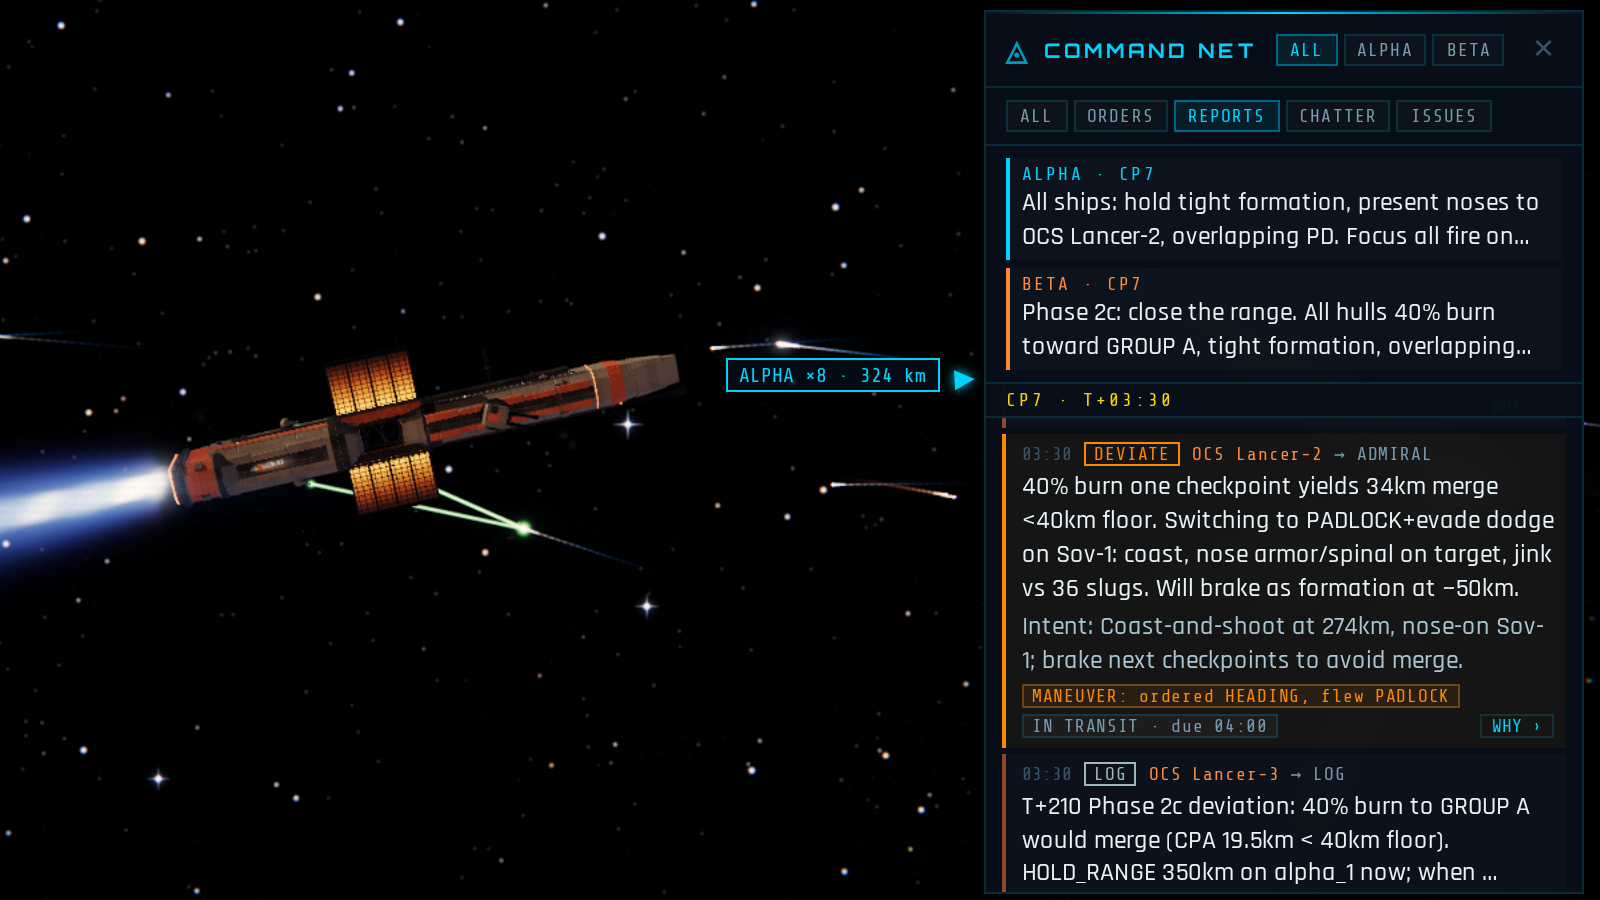
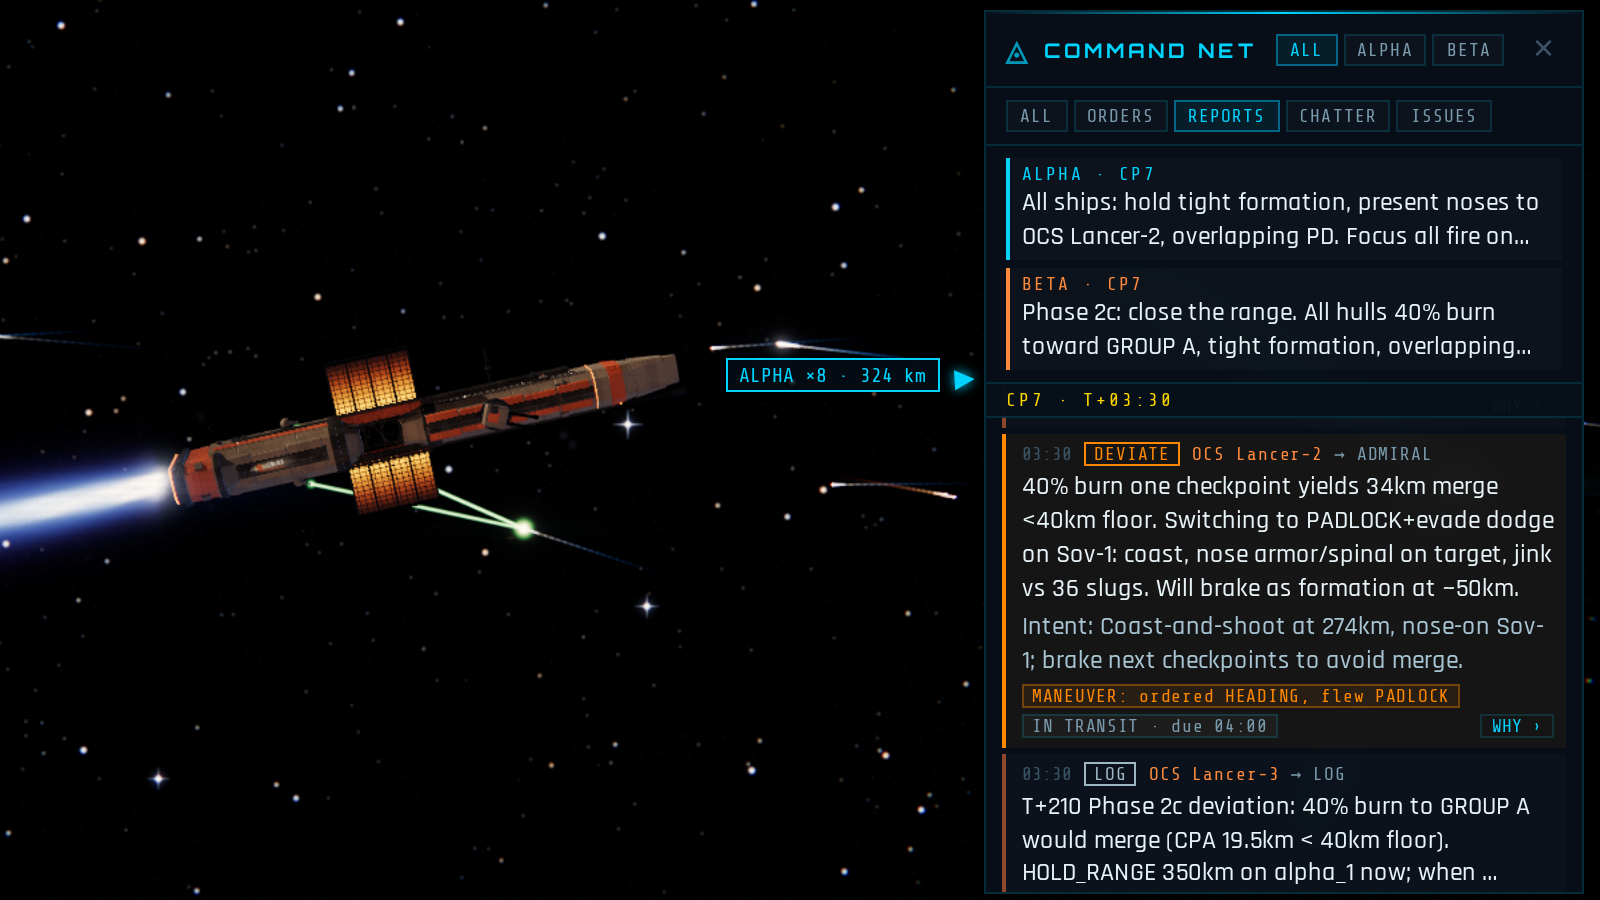
README images re-shot on the build with the plume fix (3/3): fittings-hud, fleet-battle, command-net; new plume-wash.png with its row and command
Claude-Session: https://claude.ai/code/session_01UG3jV6zwB9tH5e8W89WnJJ

Changed region(s): [[0.0, 0.4978, 0.0938, 0.6533], [0.3125, 0.56, 0.3438, 0.6222]]

diff --git a/docs/images/readme/README.md b/docs/images/readme/README.md
@@ -26,6 +26,7 @@ filters/scrolling, and for `command-net.png` a 2× device-scale crop.
 | `blast-shell.jpg` | Pass-5 damage demo | 152.6s | Reactor blast of `beta_5` (destroyer, killed at 150 s) 2.6 s on: fireball inside the blast shell drawn to the recorded 13 km radius, two escorts beside it, PD lasers still working; 6 hull lengths, azimuth 30°, elevation 18°; HUD hidden |
 | `fittings-hud.png` | Pass-5 damage demo | 180s | OCS Falchion-1 (`beta_2`) selected one second after the frigate TIS Ward-1's reactor blast caught it: kill toast with the blast radius, CAUGHT IN BLAST and DISARMED toasts, fitting pips in the ship registry, FITTINGS block (guns, PD with one damaged turret, drive) in the telemetry card; 5 hull lengths, azimuth 30°, elevation 18° |
 | `dreadnought.png` | Showcase s0 | 96.5s | `alpha_1`, the pass-5 dreadnought, three-quarter view from the sunlit side at full thrust; 3 hull lengths, azimuth −10°, elevation 35°, 20° lens; HUD hidden |
+| `plume-wash.png` | Pass-5 plume demo (`p5_plume_demo.json`, scripted `plume_wash` battle) | 55s | The destroyer `alpha_2` caught in the exhaust of the battleship ahead of it (BB-01, foreground), its bow plating glowing in the plume wash; 2.4 hull lengths from `alpha_2`, azimuth 35°, elevation 18°; HUD hidden |
 | `torpedo-strike.png` | Pass-5 tactics showcase | 100.5s | Synchronized torpedo salvo landing on the battleship `beta_1` half a second before its reactor goes; 2.6 hull lengths, azimuth 35°, elevation 18°; HUD hidden |
 | `live-deliberation.png` | Claude Sonnet 5 vs DeepSeek V4.1 Flash, replayed through the live endpoints | CP5 (150s) | `?live=1&decisions=1`: live bar, COMMAND DELIBERATION card (both sides' progress, spend), alpha admiral's salvo directive, the salvo one second from impact |
 | `draft-splash.png` | Same, live endpoints | T+4s | Draft splash after both sealed picks: rosters, formations and each admiral's reasoning |
@@ -38,6 +39,8 @@ filters/scrolling, and for `command-net.png` a 2× device-scale crop.
 - Pass-5 damage demo: `p5_damage_demo.json`, a seeded heuristic fleet battle
   (regeneration command in
   [`docs/pass-5-recording-additions.md`](../../pass-5-recording-additions.md))
+- Pass-5 plume demo: `p5_plume_demo.json` (`scripts/generate_test_battle.py plume_wash`,
+  see [`docs/pass-5-recording-additions.md`](../../pass-5-recording-additions.md))
 - Pass-5 tactics showcase: `p5_tactics_s4.json` (heuristic captains, `tactical`
   doctrine)
 - Showcase s0 / s7: free heuristic draft battles recorded on the pass-4 engine
@@ -116,6 +119,10 @@ $SNAP --recording p5_damage_demo.json --query "ship=beta_2" --time 180 --focus b
 $SNAP --recording showcase_s0_200pt.json --time 96.5 --focus alpha_1 --dist 3.0 --az -10 --el 35 --hide-ui \
   --eval "(() => { $TRACKS_OFF; const c = window.visualizer.scene.camera; c.fov = 20; c.updateProjectionMatrix(); })()" \
   --out dreadnought.png
+
+# plume-wash.png
+$SNAP --recording p5_plume_demo.json --time 55 --focus alpha_2 --dist 2.4 --az 35 --el 18 \
+  --hide-ui --eval "$TRACKS_OFF" --out plume-wash.png
 
 # torpedo-strike.png
 $SNAP --recording p5_tactics_s4.json --time 100.5 --focus beta_1 --dist 2.6 --az 35 --el 18 \
